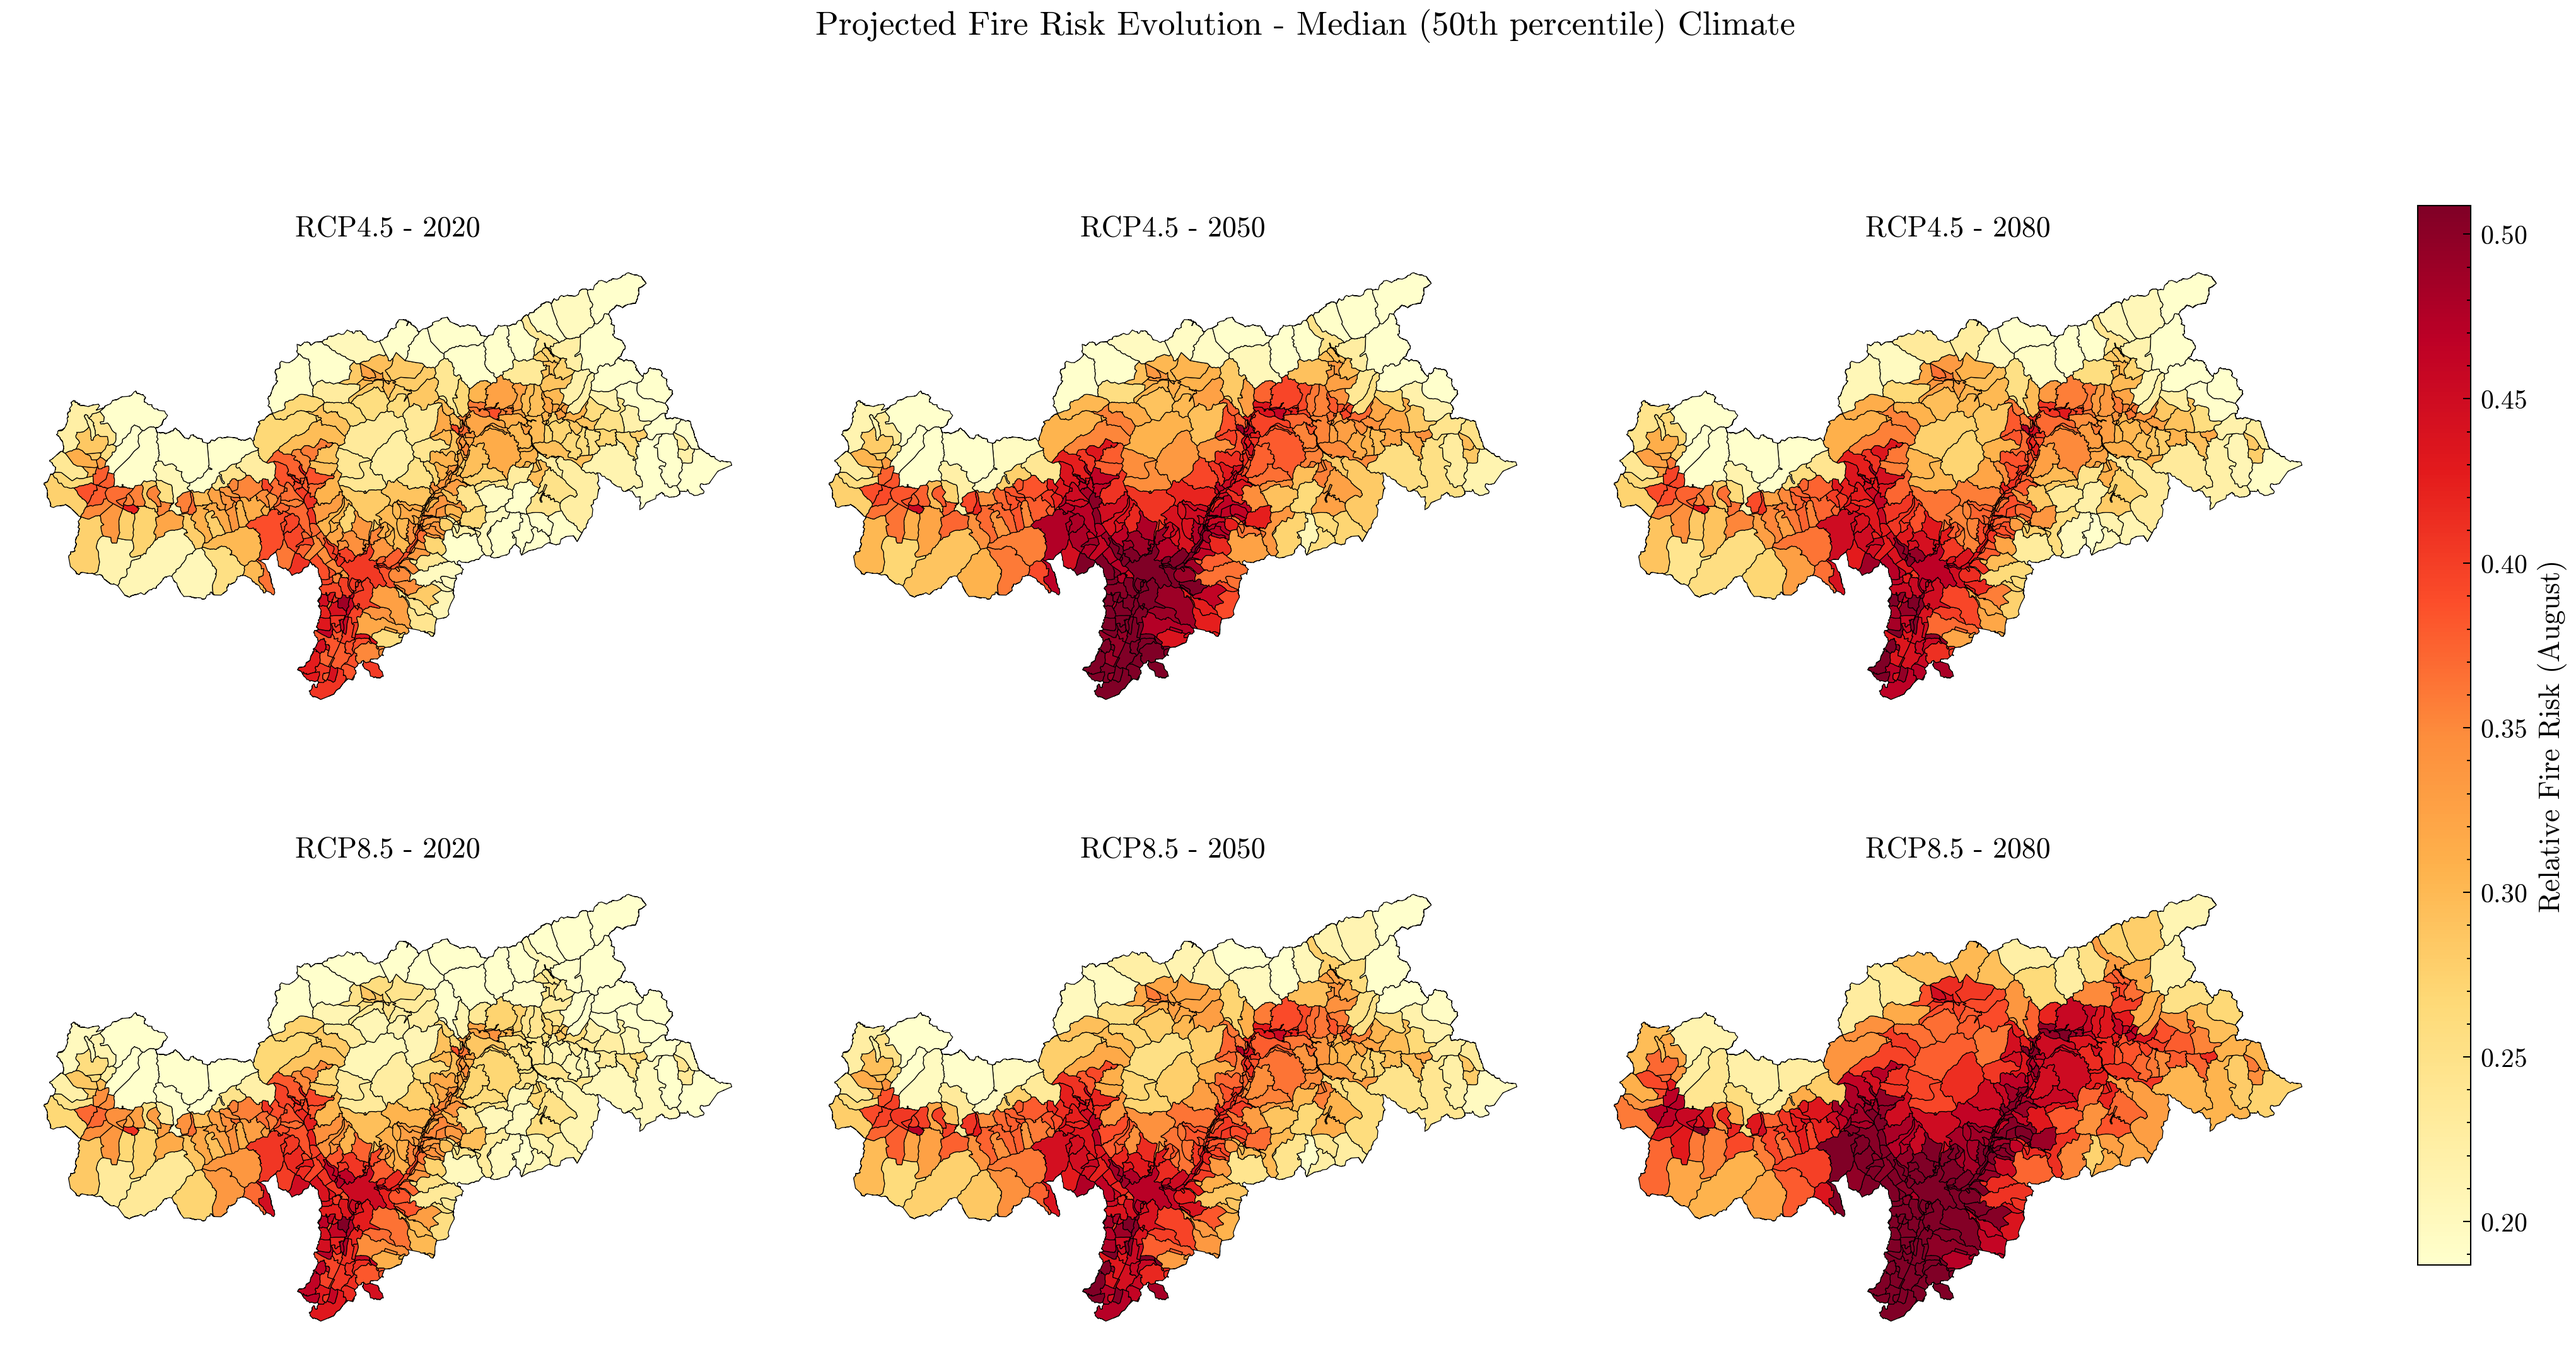
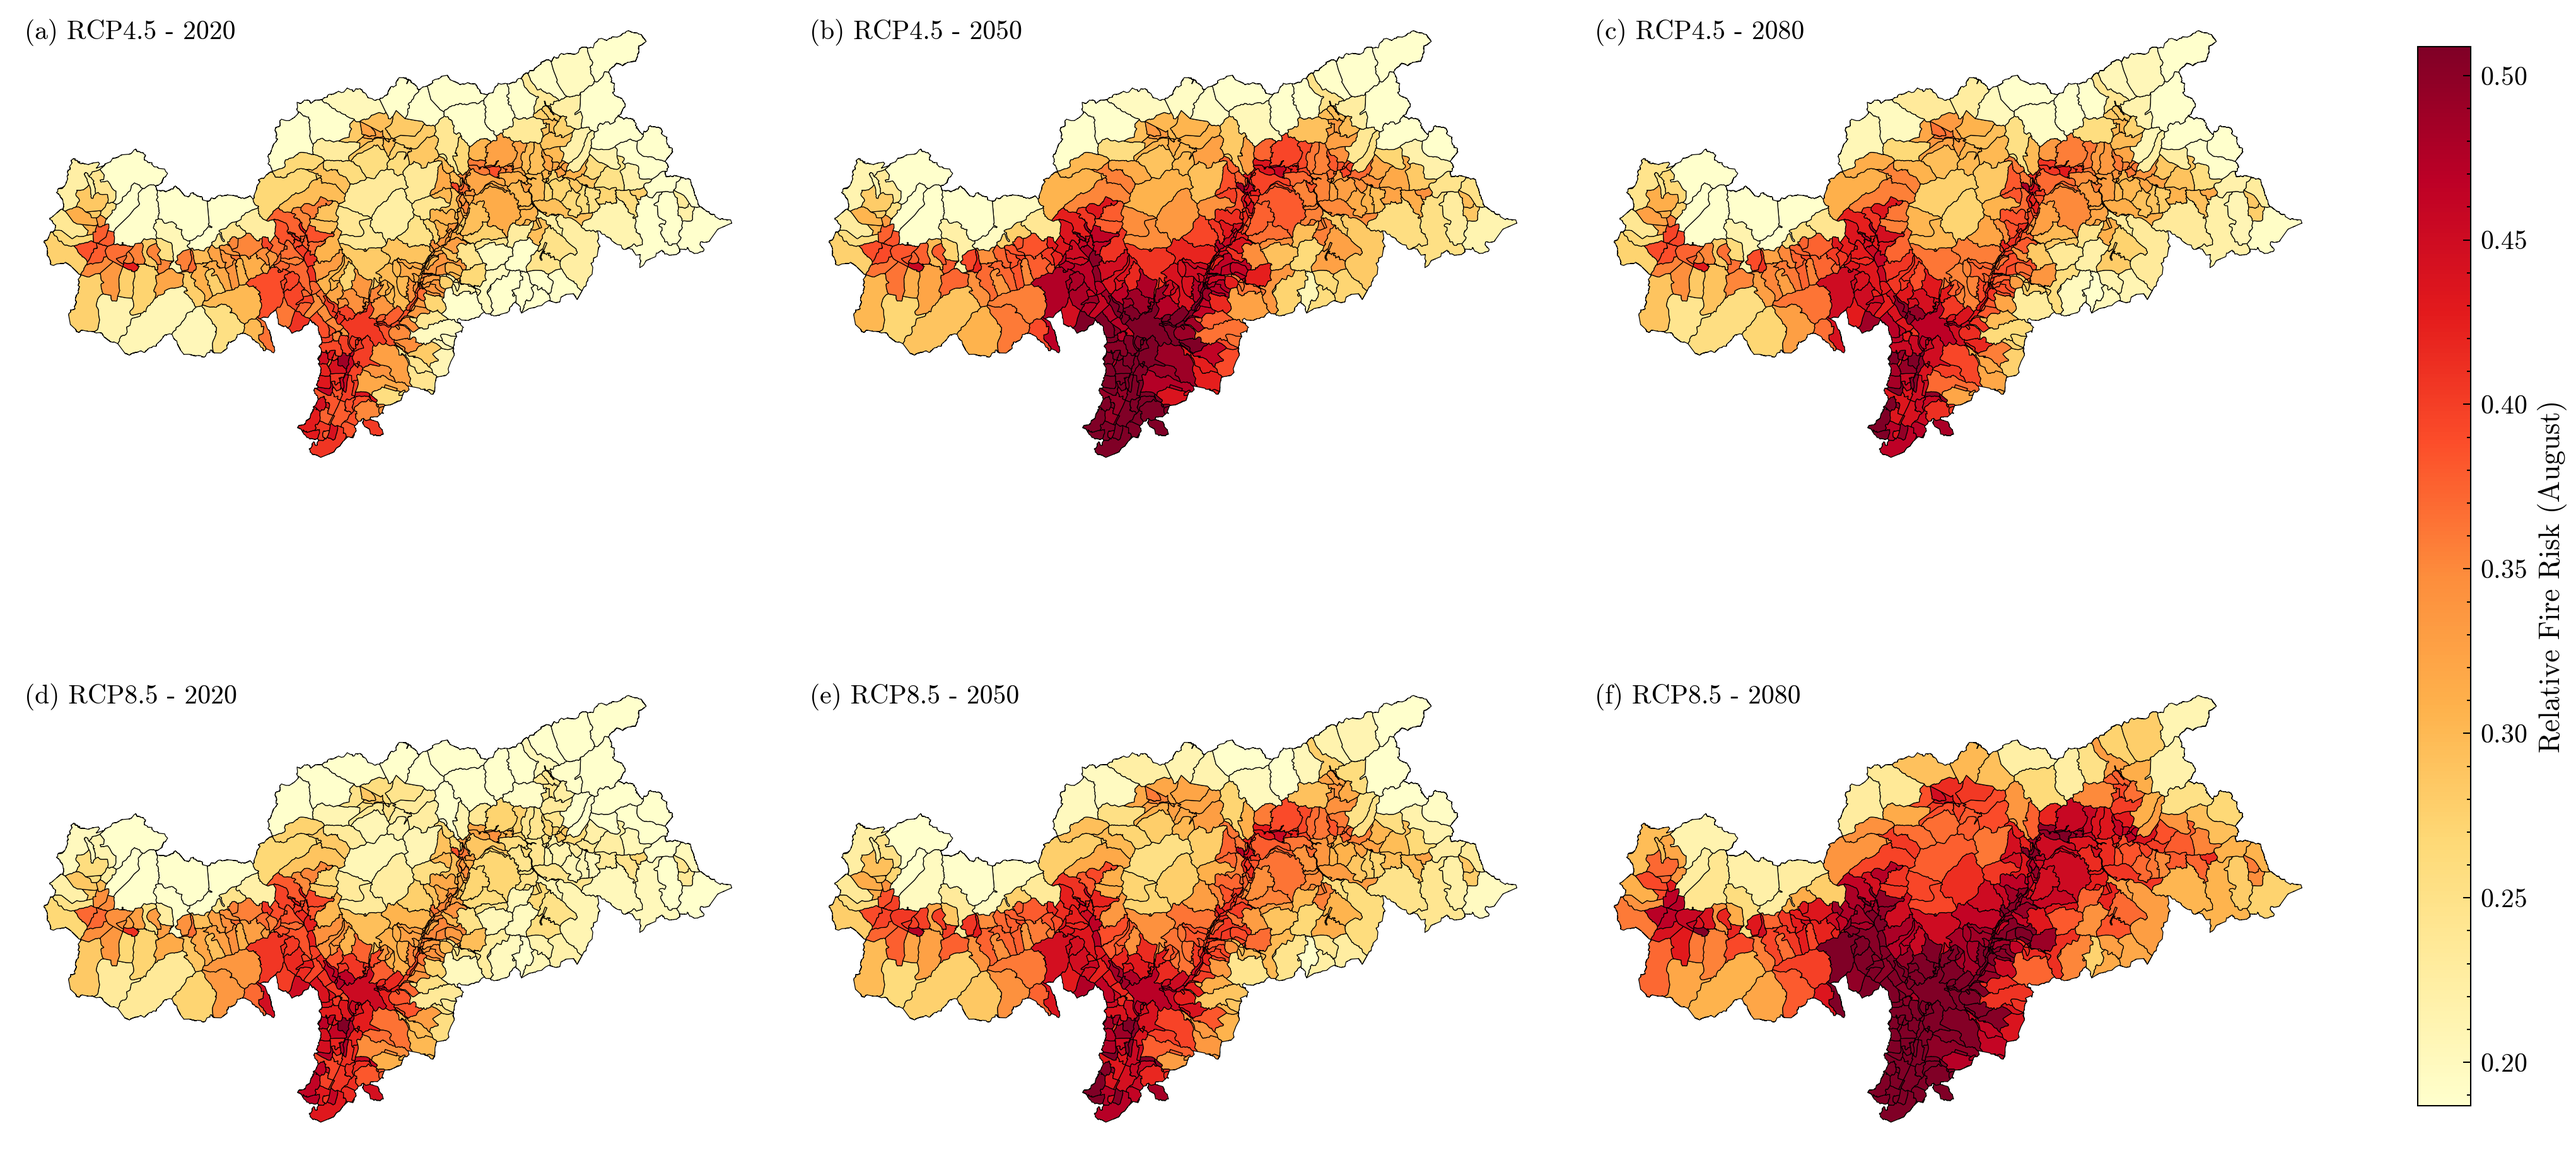
Remove titles from all scientific figures, use panel labels instead
Scientific figures should not have titles - only captions in the
manuscript. This update removes all fig.suptitle() and ax.set_title()
calls and replaces them with panel labels (a, b, c, d) positioned
within each subplot.

Changes:
- Climate figures: Removed suptitles, added panel labels with white boxes
- Risk change figure: Fixed arrow rendering issue (2020→2080 showed as square)
- Validation plots: Replaced titles with panel labels showing metrics
- All panel labels include relevant info (R², AUC, AP, scenario, etc.)

Fixes:
- Arrow character → was rendering as square box (replaced with hyphen)
- Titles overlapping with plots
- Non-standard figure formatting

All figures now follow publication standards with:
- No titles/suptitles
- Clean panel labels (a, b, c, d)
- Metrics shown in panel labels where relevant
- All information conveyed through captions in manuscript

diff --git a/04_Zone_Climate_Projections/create_final_climate_figures.py b/04_Zone_Climate_Projections/create_final_climate_figures.py
@@ -192,7 +192,12 @@ for i, scenario in enumerate(SCENARIOS):
             missing_kwds={'color': 'lightgrey'}
         )
 
-        ax.set_title(f'{scenario} - {year}', fontsize=11, fontweight='bold')
+        # Add panel label (a, b, c, etc.)
+        panel_label = chr(97 + i * len(TIME_PERIODS) + j)  # a, b, c, d, e, f
+        ax.text(0.02, 0.98, f'({panel_label}) {scenario} - {year}',
+               transform=ax.transAxes, fontsize=10, fontweight='bold',
+               va='top', ha='left', bbox=dict(boxstyle='round',
+               facecolor='white', alpha=0.8, edgecolor='none'))
         ax.axis('off')
 
 # Add colorbar
@@ -208,11 +213,7 @@ cbar_ax = fig.add_axes([0.92, 0.15, 0.02, 0.7])
 cbar = fig.colorbar(sm, cax=cbar_ax)
 cbar.set_label('Relative Fire Risk (August)', fontsize=11)
 
-# Add suptitle with quantile info
-fig.suptitle(f'Projected Fire Risk Evolution - {QUANTILE_LABEL} Climate',
-            fontsize=13, fontweight='bold', y=0.98)
-
-plt.tight_layout(rect=[0, 0, 0.90, 0.96])
+plt.tight_layout(rect=[0, 0, 0.90, 1.00])
 output_path = OUTPUT_FIGURES / "climate_maps_spatial_evolution_pctl50.png"
 plt.savefig(output_path, bbox_inches='tight', dpi=300)
 plt.close()
@@ -270,9 +271,10 @@ for scenario in ['RCP4.5', 'RCP8.5']:
                            color=colors[idx], alpha=0.2, zorder=1)
 
     ax.set_ylabel('Relative Fire Risk', fontsize=11)
-    ax.set_title(f'Fire Risk Evolution - {scenario} (August, All Climate Quantiles)',
-                fontsize=12, fontweight='bold', pad=10)
-    ax.legend(loc='upper left', fontsize=9, ncol=2)
+    # Add panel label
+    ax.text(0.02, 0.98, f'(a) {scenario}', transform=ax.transAxes,
+           fontsize=10, fontweight='bold', va='top', ha='left')
+    ax.legend(loc='upper left', fontsize=9, ncol=2, bbox_to_anchor=(0.15, 1.0))
     ax.grid(True, alpha=0.3, zorder=0)
     ax.text(0.98, 0.02, 'Shaded area: 25th-99th percentile range',
            transform=ax.transAxes, fontsize=9, ha='right', va='bottom',
@@ -307,6 +309,9 @@ for scenario in ['RCP4.5', 'RCP8.5']:
         ax.set_ylabel('Temperature (°C)', fontsize=11)
         ax.text(0.02, 0.98, 'Illustrative trend', transform=ax.transAxes,
                fontsize=9, va='top', style='italic', color='gray')
+    # Add panel label
+    ax.text(0.02, 0.98, '(b)', transform=ax.transAxes,
+           fontsize=10, fontweight='bold', va='top', ha='left')
     ax.grid(True, alpha=0.3, zorder=0)
 
     # Panel 3: Precipitation with all quantiles
@@ -336,6 +341,9 @@ for scenario in ['RCP4.5', 'RCP8.5']:
         ax.set_ylabel('Precipitation (mm/day)', fontsize=11)
         ax.text(0.02, 0.98, 'Illustrative trend', transform=ax.transAxes,
                fontsize=9, va='top', style='italic', color='gray')
+    # Add panel label
+    ax.text(0.02, 0.98, '(c)', transform=ax.transAxes,
+           fontsize=10, fontweight='bold', va='top', ha='left')
     ax.grid(True, alpha=0.3, zorder=0)
     ax.set_xlabel('Year', fontsize=11)
 
@@ -394,8 +402,12 @@ for idx, scenario in enumerate(['RCP4.5', 'RCP8.5']):
     )
 
     median_change = df_subset['risk_change_pct'].median()
-    ax.set_title(f'{scenario}: Change 2020→2080\n(Median: +{median_change:.1f}%)',
-                fontsize=11, fontweight='bold')
+    # Add panel label with scenario and median info
+    panel_label = chr(97 + idx)  # a, b
+    ax.text(0.02, 0.98, f'({panel_label}) {scenario}\nMedian: +{median_change:.1f}%',
+           transform=ax.transAxes, fontsize=10, fontweight='bold',
+           va='top', ha='left', bbox=dict(boxstyle='round',
+           facecolor='white', alpha=0.8, edgecolor='none'))
     ax.axis('off')
 
 sm = plt.cm.ScalarMappable(
@@ -405,12 +417,9 @@ sm = plt.cm.ScalarMappable(
 sm._A = []
 cbar_ax = fig.add_axes([0.92, 0.15, 0.02, 0.7])
 cbar = fig.colorbar(sm, cax=cbar_ax)
-cbar.set_label('Fire Risk Change (%)', fontsize=11)
+cbar.set_label('Fire Risk Change 2020-2080 (%)', fontsize=11)
 
-fig.suptitle(f'Projected Risk Change - {QUANTILE_LABEL} Climate',
-            fontsize=13, fontweight='bold', y=0.98)
-
-plt.tight_layout(rect=[0, 0, 0.90, 0.96])
+plt.tight_layout(rect=[0, 0, 0.90, 1.00])
 output_path = OUTPUT_FIGURES / "climate_risk_change_pctl50.png"
 plt.savefig(output_path, bbox_inches='tight', dpi=300)
 plt.close()

diff --git a/02_Model_Training/regenerate_validation_plots.py b/02_Model_Training/regenerate_validation_plots.py
@@ -88,7 +88,9 @@ def create_temporal_validation_plot(results, model_name, color, output_path):
            label='Predicted (scaled)', alpha=0.7, color=color)
     ax.set_xlabel('Month', fontsize=10)
     ax.set_ylabel('Fire Count', fontsize=10)
-    ax.set_title(f'Monthly (R$^2$={monthly_r2:.3f})', fontsize=11, pad=10)
+    ax.text(0.02, 0.98, f'(a) R$^2$={monthly_r2:.3f}',
+           transform=ax.transAxes, fontsize=10, fontweight='bold',
+           va='top', ha='left')
     ax.legend(fontsize=9)
     ax.grid(True, alpha=0.3)
     ax.set_xticks(x)
@@ -110,7 +112,9 @@ def create_temporal_validation_plot(results, model_name, color, output_path):
 
     ax.set_xlabel('Actual Fires', fontsize=10)
     ax.set_ylabel('Predicted Fires', fontsize=10)
-    ax.set_title(f'Monthly Correlation (R$^2$={monthly_r2:.3f})', fontsize=11, pad=10)
+    ax.text(0.02, 0.98, f'(b) R$^2$={monthly_r2:.3f}',
+           transform=ax.transAxes, fontsize=10, fontweight='bold',
+           va='top', ha='left')
     ax.legend(fontsize=9)
     ax.grid(True, alpha=0.3)
 
@@ -123,7 +127,9 @@ def create_temporal_validation_plot(results, model_name, color, output_path):
            label='Predicted', alpha=0.7, color=color)
     ax.set_xlabel('Season', fontsize=10)
     ax.set_ylabel('Fire Count', fontsize=10)
-    ax.set_title(f'Seasonal (R$^2$={seasonal_r2:.3f})', fontsize=11, pad=10)
+    ax.text(0.02, 0.98, f'(c) R$^2$={seasonal_r2:.3f}',
+           transform=ax.transAxes, fontsize=10, fontweight='bold',
+           va='top', ha='left')
     ax.set_xticks(x_pos)
     ax.set_xticklabels(seasonal_stats['season'], fontsize=9)
     ax.legend(fontsize=9)
@@ -146,7 +152,9 @@ def create_temporal_validation_plot(results, model_name, color, output_path):
 
     ax.set_xlabel('Actual Fires', fontsize=10)
     ax.set_ylabel('Predicted Fires', fontsize=10)
-    ax.set_title(f'Seasonal Correlation (R$^2$={seasonal_r2:.3f})', fontsize=11, pad=10)
+    ax.text(0.02, 0.98, f'(d) R$^2$={seasonal_r2:.3f}',
+           transform=ax.transAxes, fontsize=10, fontweight='bold',
+           va='top', ha='left')
     ax.legend(fontsize=9)
     ax.grid(True, alpha=0.3)
 
@@ -180,7 +188,9 @@ def create_performance_validation_plot(results, model_name, color, output_path):
     ax.plot([0, 1], [0, 1], color='navy', lw=2, linestyle='--', label='Random')
     ax.set_xlabel('False Positive Rate', fontsize=10)
     ax.set_ylabel('True Positive Rate', fontsize=10)
-    ax.set_title(f'ROC Curve (AUC={roc_auc:.3f})', fontsize=11, pad=10)
+    ax.text(0.98, 0.02, f'(a) AUC={roc_auc:.3f}',
+           transform=ax.transAxes, fontsize=10, fontweight='bold',
+           va='bottom', ha='right')
     ax.legend(fontsize=9)
     ax.grid(True, alpha=0.3)
 
@@ -206,7 +216,9 @@ def create_performance_validation_plot(results, model_name, color, output_path):
 
     ax.set_xlabel('Recall', fontsize=10)
     ax.set_ylabel('Precision', fontsize=10)
-    ax.set_title(f'Precision-Recall (AP={pr_auc:.3f})', fontsize=11, pad=10)
+    ax.text(0.98, 0.02, f'(b) AP={pr_auc:.3f}',
+           transform=ax.transAxes, fontsize=10, fontweight='bold',
+           va='bottom', ha='right')
     ax.legend(fontsize=9)
     ax.grid(True, alpha=0.3)
 
@@ -239,7 +251,8 @@ def create_performance_validation_plot(results, model_name, color, output_path):
            color='navy', lw=2, linestyle='--', label='Perfect Calibration')
     ax.set_xlabel('Predicted Probability', fontsize=10)
     ax.set_ylabel('Observed Frequency', fontsize=10)
-    ax.set_title('Calibration Plot', fontsize=11, pad=10)
+    ax.text(0.02, 0.98, '(c)', transform=ax.transAxes,
+           fontsize=10, fontweight='bold', va='top', ha='left')
     ax.legend(fontsize=9)
     ax.grid(True, alpha=0.3)
 
@@ -264,7 +277,8 @@ def create_performance_validation_plot(results, model_name, color, output_path):
     ax.axhline(y=1, color='navy', lw=2, linestyle='--', label='Baseline (Random)')
     ax.set_xlabel('Percentage of Population Targeted (%)', fontsize=10)
     ax.set_ylabel('Lift', fontsize=10)
-    ax.set_title('Lift Curve', fontsize=11, pad=10)
+    ax.text(0.02, 0.98, '(d)', transform=ax.transAxes,
+           fontsize=10, fontweight='bold', va='top', ha='left')
     ax.legend(fontsize=9)
     ax.grid(True, alpha=0.3)
 
